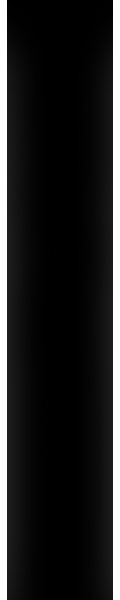
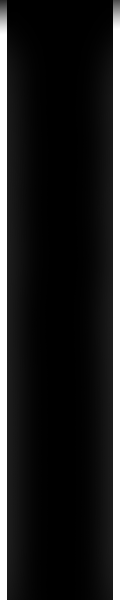
fixed miniroad

Changed region(s): [[0.925, 0.0, 1.0, 0.06], [0.0, 0.0, 0.075, 0.06]]

diff --git a/client/src/components/MiniMap.js b/client/src/components/MiniMap.js
@@ -33,7 +33,7 @@ class MiniMap extends Component {
     this.ego.scaleY = (this.vehicleHeight/178)*this.scale;
 
     if(!this.road){
-      this.road = new createjs.Bitmap(images.road);
+      this.road = new createjs.Bitmap(images.miniRoad);
     }
 
     this.road.x = -(this.roadWidth*this.scale)/2 + (this.vehicleWidth * this.scale)/  2;

diff --git a/client/src/images/index.js b/client/src/images/index.js
@@ -4,5 +4,6 @@ export default {
     line: require('./line.png'),
     road: require('./road.png'),
     miniEgo: require('./miniEgo.png'),
-    miniOther: require('./miniOther.png')
+    miniOther: require('./miniOther.png'),
+    miniRoad: require('./miniRoad.png')
 }
